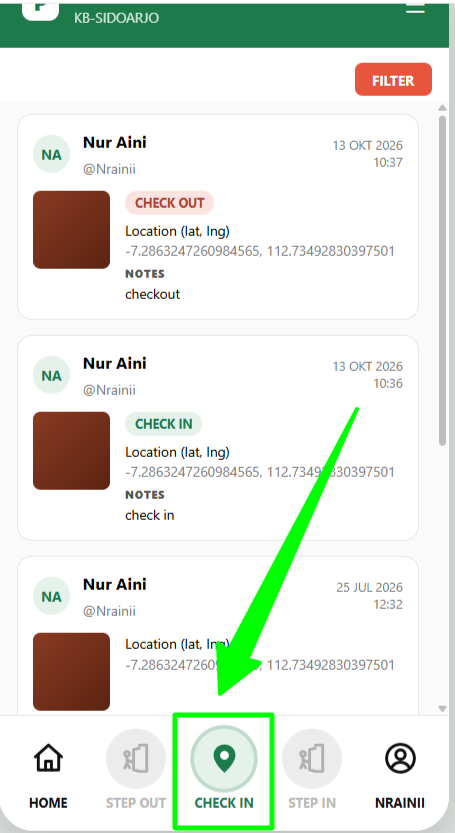
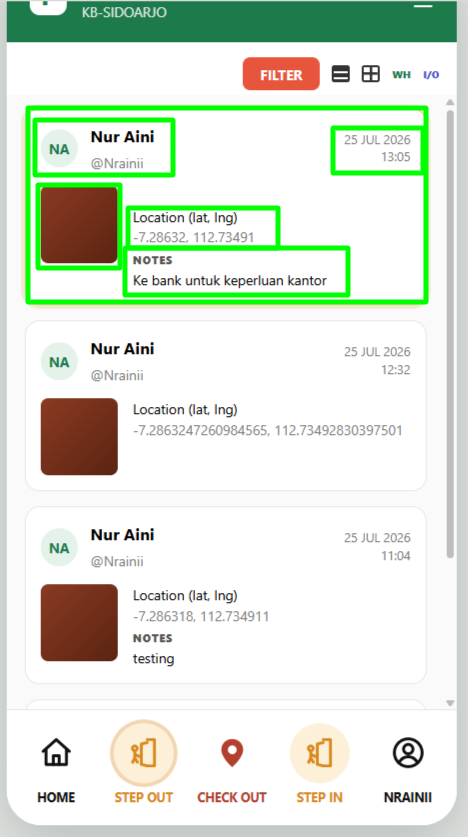
GITBOOK-213: fixing hris absensi

Changed region(s): [[0.0, 0.0, 1.0, 0.9988], [0.7385, 0.6242, 0.8923, 0.7491]]

diff --git a/acceptance-criteria/step-out.md b/acceptance-criteria/step-out.md
@@ -15,7 +15,7 @@
 
 <figure><img src="../.gitbook/assets/image (163).png" alt=""><figcaption></figcaption></figure>
 
-* Then I will see the step out button disable&#x20;
+* Then I will see the step out button disable
 
 <figure><img src="../.gitbook/assets/image (141).png" alt=""><figcaption></figcaption></figure>
 
@@ -27,9 +27,9 @@
 * and I have the checkin data for the date corresponding to the step out date.
 * When I click button step out
 
-<figure><img src="../.gitbook/assets/image (144).png" alt=""><figcaption></figcaption></figure>
+<figure><img src="../.gitbook/assets/image (142).png" alt=""><figcaption></figcaption></figure>
 
-* And I click Don't Allow on the prompt&#x20;
+* And I click Don't Allow on the prompt
 
 <figure><img src="../.gitbook/assets/image (164).png" alt=""><figcaption></figcaption></figure>
 
@@ -45,9 +45,9 @@
 * and I have the check-in data for the date corresponding to the step out date.
 * When I click button step out
 
-<figure><img src="../.gitbook/assets/image (145).png" alt=""><figcaption></figcaption></figure>
+<figure><img src="../.gitbook/assets/image (142).png" alt=""><figcaption></figcaption></figure>
 
-* And I click Dont Allow on the prompt&#x20;
+* And I click Dont Allow on the prompt
 
 <figure><img src="../.gitbook/assets/image (165).png" alt=""><figcaption></figcaption></figure>
 
@@ -63,7 +63,7 @@
 * I have granted camera access permission
 * When I click button step out
 
-<figure><img src="../.gitbook/assets/image (146).png" alt=""><figcaption></figcaption></figure>
+<figure><img src="../.gitbook/assets/image (142).png" alt=""><figcaption></figcaption></figure>
 
 * And I click submit button without take any photos
 
@@ -84,7 +84,7 @@
 * and I have the check-in data for the date corresponding to the step out date.
 * When I click button step out
 
-<figure><img src="../.gitbook/assets/image (147).png" alt=""><figcaption></figcaption></figure>
+<figure><img src="../.gitbook/assets/image (142).png" alt=""><figcaption></figcaption></figure>
 
 * And I click capture
 
@@ -111,13 +111,13 @@
 * and I have the check-in data for the date corresponding to the step out date.
 * When I click button step out
 
-<figure><img src="../.gitbook/assets/image (148).png" alt=""><figcaption></figcaption></figure>
+<figure><img src="../.gitbook/assets/image (142).png" alt=""><figcaption></figcaption></figure>
 
-* And I click Allow on the camera prompt&#x20;
+* And I click Allow on the camera prompt
 
 <figure><img src="../.gitbook/assets/image (167).png" alt=""><figcaption></figcaption></figure>
 
-* And I click Allow on the location prompt&#x20;
+* And I click Allow on the location prompt
 
 <figure><img src="../.gitbook/assets/image (168).png" alt=""><figcaption></figcaption></figure>
 
@@ -139,6 +139,18 @@
 Note : Untuk tampilan feed absensi mengikuti tampilan app saat ini. _yang dirubah hanya tombol bawah._
 {% endhint %}
 
-<figure><img src="../.gitbook/assets/image (55).png" alt=""><figcaption></figcaption></figure>
+* And I can see my step out data with the following fields
 
-* Then, the step out duration will reduce working hours.
+| Field     | Value                           |
+| --------- | ------------------------------- |
+| Full Name | Nur Aini                        |
+| Username  | @nrainii                        |
+| Location  | -7.28632.112.73491              |
+| Notes     | Ke bank untuk keperluan kantor  |
+| Date      | 25 Jul 2026                     |
+| Time      | 08:00                           |
+| Photo     | Captured photo                  |
+
+<figure><img src="../.gitbook/assets/image (32).png" alt=""><figcaption></figcaption></figure>
+
+* And, the step out duration will reduce working hours.

diff --git a/acceptance-criteria/checkin.md b/acceptance-criteria/checkin.md
@@ -7,8 +7,6 @@
 
 <figure><img src="../.gitbook/assets/image (13).png" alt=""><figcaption></figcaption></figure>
 
-
-
 ## CI.F2 - Display a text "camera permission blocked"
 
 * Given I already logged in
@@ -26,8 +24,6 @@
 
 <figure><img src="../.gitbook/assets/image (111).png" alt=""><figcaption></figcaption></figure>
 
-
-
 ## CI.F3 - Display a text "Location access is blocked"
 
 * Given I already logged in
@@ -35,7 +31,7 @@
 * And the location permission status is asking
 * When I click button checkin
 
-<figure><img src="../.gitbook/assets/image (80).png" alt=""><figcaption></figcaption></figure>
+<figure><img src="../.gitbook/assets/image (16).png" alt=""><figcaption></figcaption></figure>
 
 * When I click Don't Allow on the prompt
 
@@ -52,7 +48,7 @@
 * And I have granted camera access permission
 * When I click button checkin
 
-<figure><img src="../.gitbook/assets/image (93).png" alt=""><figcaption></figcaption></figure>
+<figure><img src="../.gitbook/assets/image (16).png" alt=""><figcaption></figcaption></figure>
 
 * And I click submit button without take any photos
 
@@ -72,7 +68,7 @@
 * and I did not grant GPS access permission
 * When I click button checkin
 
-<figure><img src="../.gitbook/assets/image (95).png" alt=""><figcaption></figcaption></figure>
+<figure><img src="../.gitbook/assets/image (16).png" alt=""><figcaption></figcaption></figure>
 
 * And I click capture
 
@@ -94,13 +90,13 @@
 * And the location permission status is asking
 * When I click button checkin
 
-<figure><img src="../.gitbook/assets/image (96).png" alt=""><figcaption></figcaption></figure>
+<figure><img src="../.gitbook/assets/image (16).png" alt=""><figcaption></figcaption></figure>
 
-* And I click allow on the camera prompt&#x20;
+* And I click allow on the camera prompt
 
 <figure><img src="../.gitbook/assets/image (158).png" alt=""><figcaption></figcaption></figure>
 
-* And I click allow on the location prompt&#x20;
+* And I click allow on the location prompt
 
 <figure><img src="../.gitbook/assets/image (159).png" alt=""><figcaption></figcaption></figure>
 
@@ -116,23 +112,23 @@
 
 <figure><img src="../.gitbook/assets/image (23).png" alt=""><figcaption></figcaption></figure>
 
-* Then I can redirect to feedpage to see checkin data&#x20;
+* Then I can redirect to feedpage to see checkin data
 
 {% hint style="info" %}
 Note : Untuk tampilan feed absensi mengikuti tampilan app saat ini. _yang dirubah hanya tombol bawah._
 {% endhint %}
 
-* And I can see my check-in data with the following fields:&#x20;
+* And I can see my check-in data with the following fields:
 
-| Field         | Value                |
-| ------------- | -------------------- |
-| Full Name     | Nur Aini             |
-| Username      | @nrainii             |
-| Location      | 429812138, 239428323 |
-| Notes         | Check-in successful  |
-| Check-in Date | 25 Jul 2026          |
-| Check-in Time | 08:00                |
-| Photo         | Captured photo       |
+| Field     | Value                |
+| --------- | -------------------- |
+| Full Name | Nur Aini             |
+| Username  | @nrainii             |
+| Location  | 429812138, 239428323 |
+| Notes     | Absensi berhasil     |
+| Date      | 25 Jul 2026          |
+| Time      | 08:00                |
+| Photo     | Captured photo       |
 
 <figure><img src="../.gitbook/assets/image (1).png" alt=""><figcaption></figcaption></figure>
 

diff --git a/acceptance-criteria/step-in.md b/acceptance-criteria/step-in.md
@@ -26,7 +26,7 @@
 
 <figure><img src="../.gitbook/assets/image (150).png" alt=""><figcaption></figcaption></figure>
 
-* And I click Don't Allow on the prompt&#x20;
+* And I click Don't Allow on the prompt
 
 <figure><img src="../.gitbook/assets/image (169).png" alt=""><figcaption></figcaption></figure>
 
@@ -42,9 +42,9 @@
 * and I have the step out data for the date corresponding to the step-in date.
 * When I click button step in
 
-<figure><img src="../.gitbook/assets/image (152).png" alt=""><figcaption></figcaption></figure>
+<figure><img src="../.gitbook/assets/image (150).png" alt=""><figcaption></figcaption></figure>
 
-* And I click Dont allow on the prompt&#x20;
+* And I click Dont allow on the prompt
 
 <figure><img src="../.gitbook/assets/image (170).png" alt=""><figcaption></figcaption></figure>
 
@@ -60,7 +60,7 @@
 * I have granted camera access permission
 * When I click button step in
 
-<figure><img src="../.gitbook/assets/image (153).png" alt=""><figcaption></figcaption></figure>
+<figure><img src="../.gitbook/assets/image (150).png" alt=""><figcaption></figcaption></figure>
 
 * And I click submit button without take any photos
 
@@ -81,7 +81,7 @@
 * and I have the step out data for the date corresponding to the step-in date.
 * When I click button step in
 
-<figure><img src="../.gitbook/assets/image (154).png" alt=""><figcaption></figcaption></figure>
+<figure><img src="../.gitbook/assets/image (150).png" alt=""><figcaption></figcaption></figure>
 
 * And I click capture
 
@@ -104,13 +104,13 @@
 * and I have the step out data for the date corresponding to the step-in date.
 * When I click button step in
 
-<figure><img src="../.gitbook/assets/image (155).png" alt=""><figcaption></figcaption></figure>
+<figure><img src="../.gitbook/assets/image (150).png" alt=""><figcaption></figcaption></figure>
 
-* And I click Allow on the camera prompt&#x20;
+* And I click Allow on the camera prompt
 
 <figure><img src="../.gitbook/assets/image (171).png" alt=""><figcaption></figcaption></figure>
 
-* And I click Allow on the location prompt&#x20;
+* And I click Allow on the location prompt
 
 <figure><img src="../.gitbook/assets/image (172).png" alt=""><figcaption></figcaption></figure>
 
@@ -132,4 +132,16 @@
 Note : Untuk tampilan feed absensi mengikuti tampilan app saat ini. _yang dirubah hanya tombol bawah._
 {% endhint %}
 
-<figure><img src="../.gitbook/assets/image (68).png" alt=""><figcaption></figcaption></figure>
+* And I can see my step in data with the following fields
+
+| Field     | Value                                       |
+| --------- | ------------------------------------------- |
+| Full Name | Nur Aini                                    |
+| Username  | @nrainii                                    |
+| Location  | -7.28632.112.73491                          |
+| Notes     | Step In dari bank untuk keperluan city car  |
+| Date      | 25 Jul 2026                                 |
+| Time      | 08:00                                       |
+| Photo     | Captured photo                              |
+
+<figure><img src="../.gitbook/assets/image (80).png" alt=""><figcaption></figcaption></figure>

diff --git a/acceptance-criteria/checkout.md b/acceptance-criteria/checkout.md
@@ -126,15 +126,15 @@ Note : Untuk tampilan feed absensi mengikuti tampilan app saat ini. _yang diruba
 
 * And I can see my check-in data with the following fields:
 
-| Field         | Value                |
-| ------------- | -------------------- |
-| Full Name     | Nur Aini             |
-| Username      | @nrainii             |
-| Location      | 429812138, 239428323 |
-| Notes         | Check-in successful  |
-| Check-in Date | 25 Jul 2026          |
-| Check-in Time | 08:00                |
-| Photo         | Captured photo       |
+| Field     | Value                |
+| --------- | -------------------- |
+| Full Name | Nur Aini             |
+| Username  | @nrainii             |
+| Location  | 429812138, 239428323 |
+| Notes     | Check-in successful  |
+| Date      | 25 Jul 2026          |
+| Time      | 08:00                |
+| Photo     | Captured photo       |
 
 <figure><img src="../.gitbook/assets/image (1).png" alt=""><figcaption></figcaption></figure>
 
